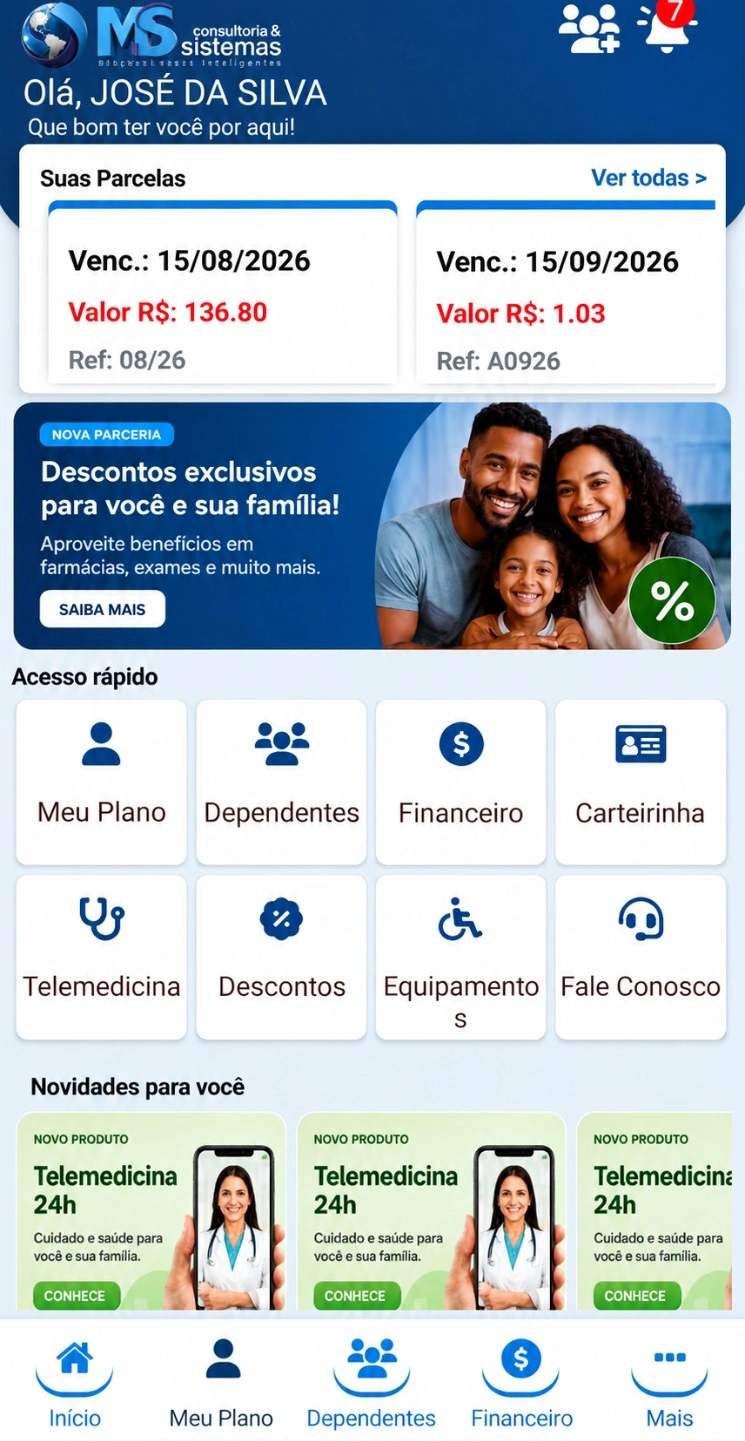
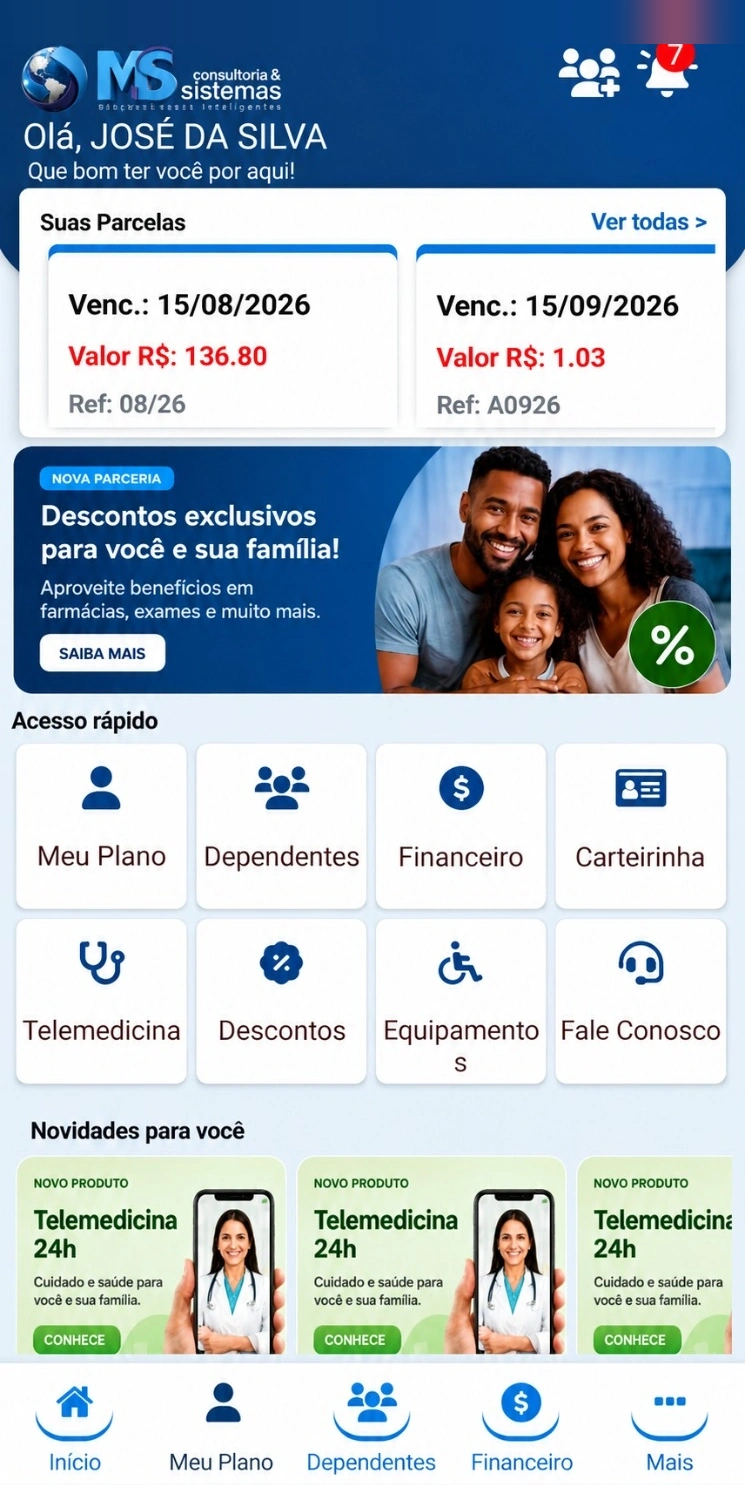
ajusta os celulares do MS App e os textos do passeio
Celular de trás mais claro e menos sobreposto. Tela interna com cantos
arredondados e folga no topo da tela inicial. Passos do passeio sem
citar CPF, já que o acesso é configurado por cliente.

Claude-Session: https://claude.ai/code/session_01QeAYU661rz4E5KPSvzJ7Eq

diff --git a/apps/web/src/features/products/products.css b/apps/web/src/features/products/products.css
@@ -24,9 +24,9 @@ a.ms-pchip:hover { border-color: var(--sky); background: var(--ink-raised); }
 .ms-page .ms-pdv__mods { display: flex; flex-wrap: wrap; justify-content: center; gap: var(--space-2); }
 .ms-pdv__mods .ms-pchip { padding-right: 14px; box-shadow: none; }
 .ms-pdv--app { margin-inline: auto; }
-.ms-pdv__duo { position: relative; height: var(--duo-h, clamp(300px, 34vw, 460px)); aspect-ratio: 0.85; }
+.ms-pdv__duo { position: relative; height: var(--duo-h, clamp(300px, 34vw, 460px)); aspect-ratio: 0.9; }
 .ms-pdv__ph { position: absolute; bottom: 0; height: 88%; }
-.ms-pdv__ph--back { left: 0; filter: brightness(0.8) saturate(0.9); }
+.ms-pdv__ph--back { left: 0; filter: brightness(0.93); }
 .ms-pdv__ph--front { right: 0; z-index: 2; height: 100%; }
 .ms-pdv--dash { max-width: 640px; margin-inline: auto; }
 .ms-pdv__chip { position: absolute; z-index: 2; box-shadow: var(--shadow-float); }

diff --git a/apps/web/src/shared/config/products.ts b/apps/web/src/shared/config/products.ts
@@ -217,12 +217,12 @@ export const PRODUCTS: readonly Product[] = [
     stepsTitle: 'Como o associado usa',
     steps: [
       {
-        title: 'Entra com o CPF',
-        text: 'O acesso é pelo CPF, e no primeiro acesso o associado cadastra a senha.',
+        title: 'Acesso rápido',
+        text: 'O associado entra de forma rápida e simples, com o acesso que a sua empresa definir.',
       },
       {
-        title: 'Vê tudo na tela inicial',
-        text: 'Parcelas em destaque e atalhos para o plano, os dependentes, o financeiro e a carteirinha.',
+        title: 'Todos os acessos facilitados',
+        text: 'Parcelas em destaque e atalhos para o plano, os dependentes, o financeiro, a carteirinha e a telemedicina, tudo à mão na tela inicial.',
       },
       {
         title: 'Recebe lembretes',

diff --git a/apps/web/src/shared/ui/phone-frame.css b/apps/web/src/shared/ui/phone-frame.css
@@ -1,4 +1,4 @@
 .ms-phone { position: relative; container-type: inline-size; aspect-ratio: var(--ar); }
 .ms-phone__body { position: relative; box-sizing: border-box; width: 100%; padding: 7cqw 2cqw 6cqw; border-radius: 11cqw; background: var(--ink); box-shadow: 0 0 0 1px var(--glass-border), var(--shadow-float); }
 .ms-phone__cam { position: absolute; top: 2.4cqw; left: 50%; width: 11cqw; height: 2.2cqw; border-radius: var(--radius-full); background: var(--ink-raised); transform: translateX(-50%); }
-.ms-page .ms-phone__body img { display: block; width: 100%; height: auto; user-select: none; pointer-events: none; }
+.ms-page .ms-phone__body img { display: block; width: 100%; height: auto; border-radius: 6cqw; user-select: none; pointer-events: none; }

diff --git a/apps/web/src/features/products/product-assets.ts b/apps/web/src/features/products/product-assets.ts
@@ -34,13 +34,13 @@ export const APP_SCREENS = [
     src: appLogin,
     width: 566,
     height: 1260,
-    alt: 'Tela de acesso do MS App, em que o associado informa o CPF',
+    alt: 'Tela de acesso do MS App, com o campo de acesso do associado',
   },
   {
     key: 'inicio',
     src: appHome,
     width: 745,
-    height: 1441,
+    height: 1485,
     alt: 'Tela inicial do MS App com as parcelas e os atalhos para plano, dependentes, financeiro e carteirinha. Dados de exemplo.',
   },
   {

diff --git a/docs/decisoes.md b/docs/decisoes.md
@@ -444,3 +444,8 @@ O dono do projeto pediu para manter os slides com os três produtos na abertura 
 - **Sem recorte:** o `PhoneFrame` arredondava a tela com a imagem por baixo, e cortava os cantos, onde ficam a logo e o sino de avisos. Agora a moldura tem uma faixa de câmera em cima e uma barra embaixo, e a imagem entra inteira, na proporção original.
 - **Nitidez:** a imagem era esticada em uma caixa de proporção um pouco diferente da dela, o que a deixava borrada. Agora ela tem largura e altura naturais. As telas foram refeitas a partir dos originais, em WebP qualidade 96, com as mesmas edições de privacidade.
 - **MS App em `/produtos`:** as faixas e a abertura da página do app usam os dois celulares sobrepostos.
+
+**Ajustes seguintes (24/11/2026):**
+- O celular de trás ficou mais claro e quase sem sobreposição, para o login aparecer melhor.
+- A tela interna do celular ganhou cantos arredondados, e a tela inicial do app ganhou uma faixa de 44 px no topo, com a cor do cabeçalho, para a logo não encostar na borda.
+- No passeio do MS App, o acesso não é mais só pelo CPF, porque é uma configuração de cada cliente. Os passos agora são "Acesso rápido", "Todos os acessos facilitados" e "Recebe lembretes".

diff --git a/docs/referencias/ms-app/README.md b/docs/referencias/ms-app/README.md
@@ -5,7 +5,7 @@ A pasta `originais` guarda as imagens do MS App exatamente como foram enviadas p
 | Original | Versão tratada usada no site | O que foi feito |
 | --- | --- | --- |
 | `originais/app-login-original.jpg` | `apps/web/src/assets/app/app-login.webp` | Recorte só da tela (x 168, y 190, 566×1260), sem a moldura do celular |
-| `originais/app-inicio-original.jpg` | `apps/web/src/assets/app/app-inicio.webp` | Corte das barras de status e de navegação do celular (y 62 a 1503) e remoção do "??" depois de "Que bom ter você por aqui!" |
+| `originais/app-inicio-original.jpg` | `apps/web/src/assets/app/app-inicio.webp` | Corte das barras de status e de navegação do celular (y 62 a 1503) e remoção do "??" depois de "Que bom ter você por aqui!" e uma faixa de 44 px no topo, com a cor do cabeçalho esticada, para o conteúdo não encostar na borda da moldura |
 | `originais/app-lembrete-original.jpg` | `apps/web/src/assets/app/app-lembrete.webp` | Corte das barras do celular (y 62 a 1503) e troca do nome do associado pelo nome de exemplo "José da Silva" |
 | `originais/ms-app-logo-original.jpg` | `apps/web/src/assets/app/ms-app-logo.webp` | Fundo removido (transparente) e tamanho reduzido |
 
